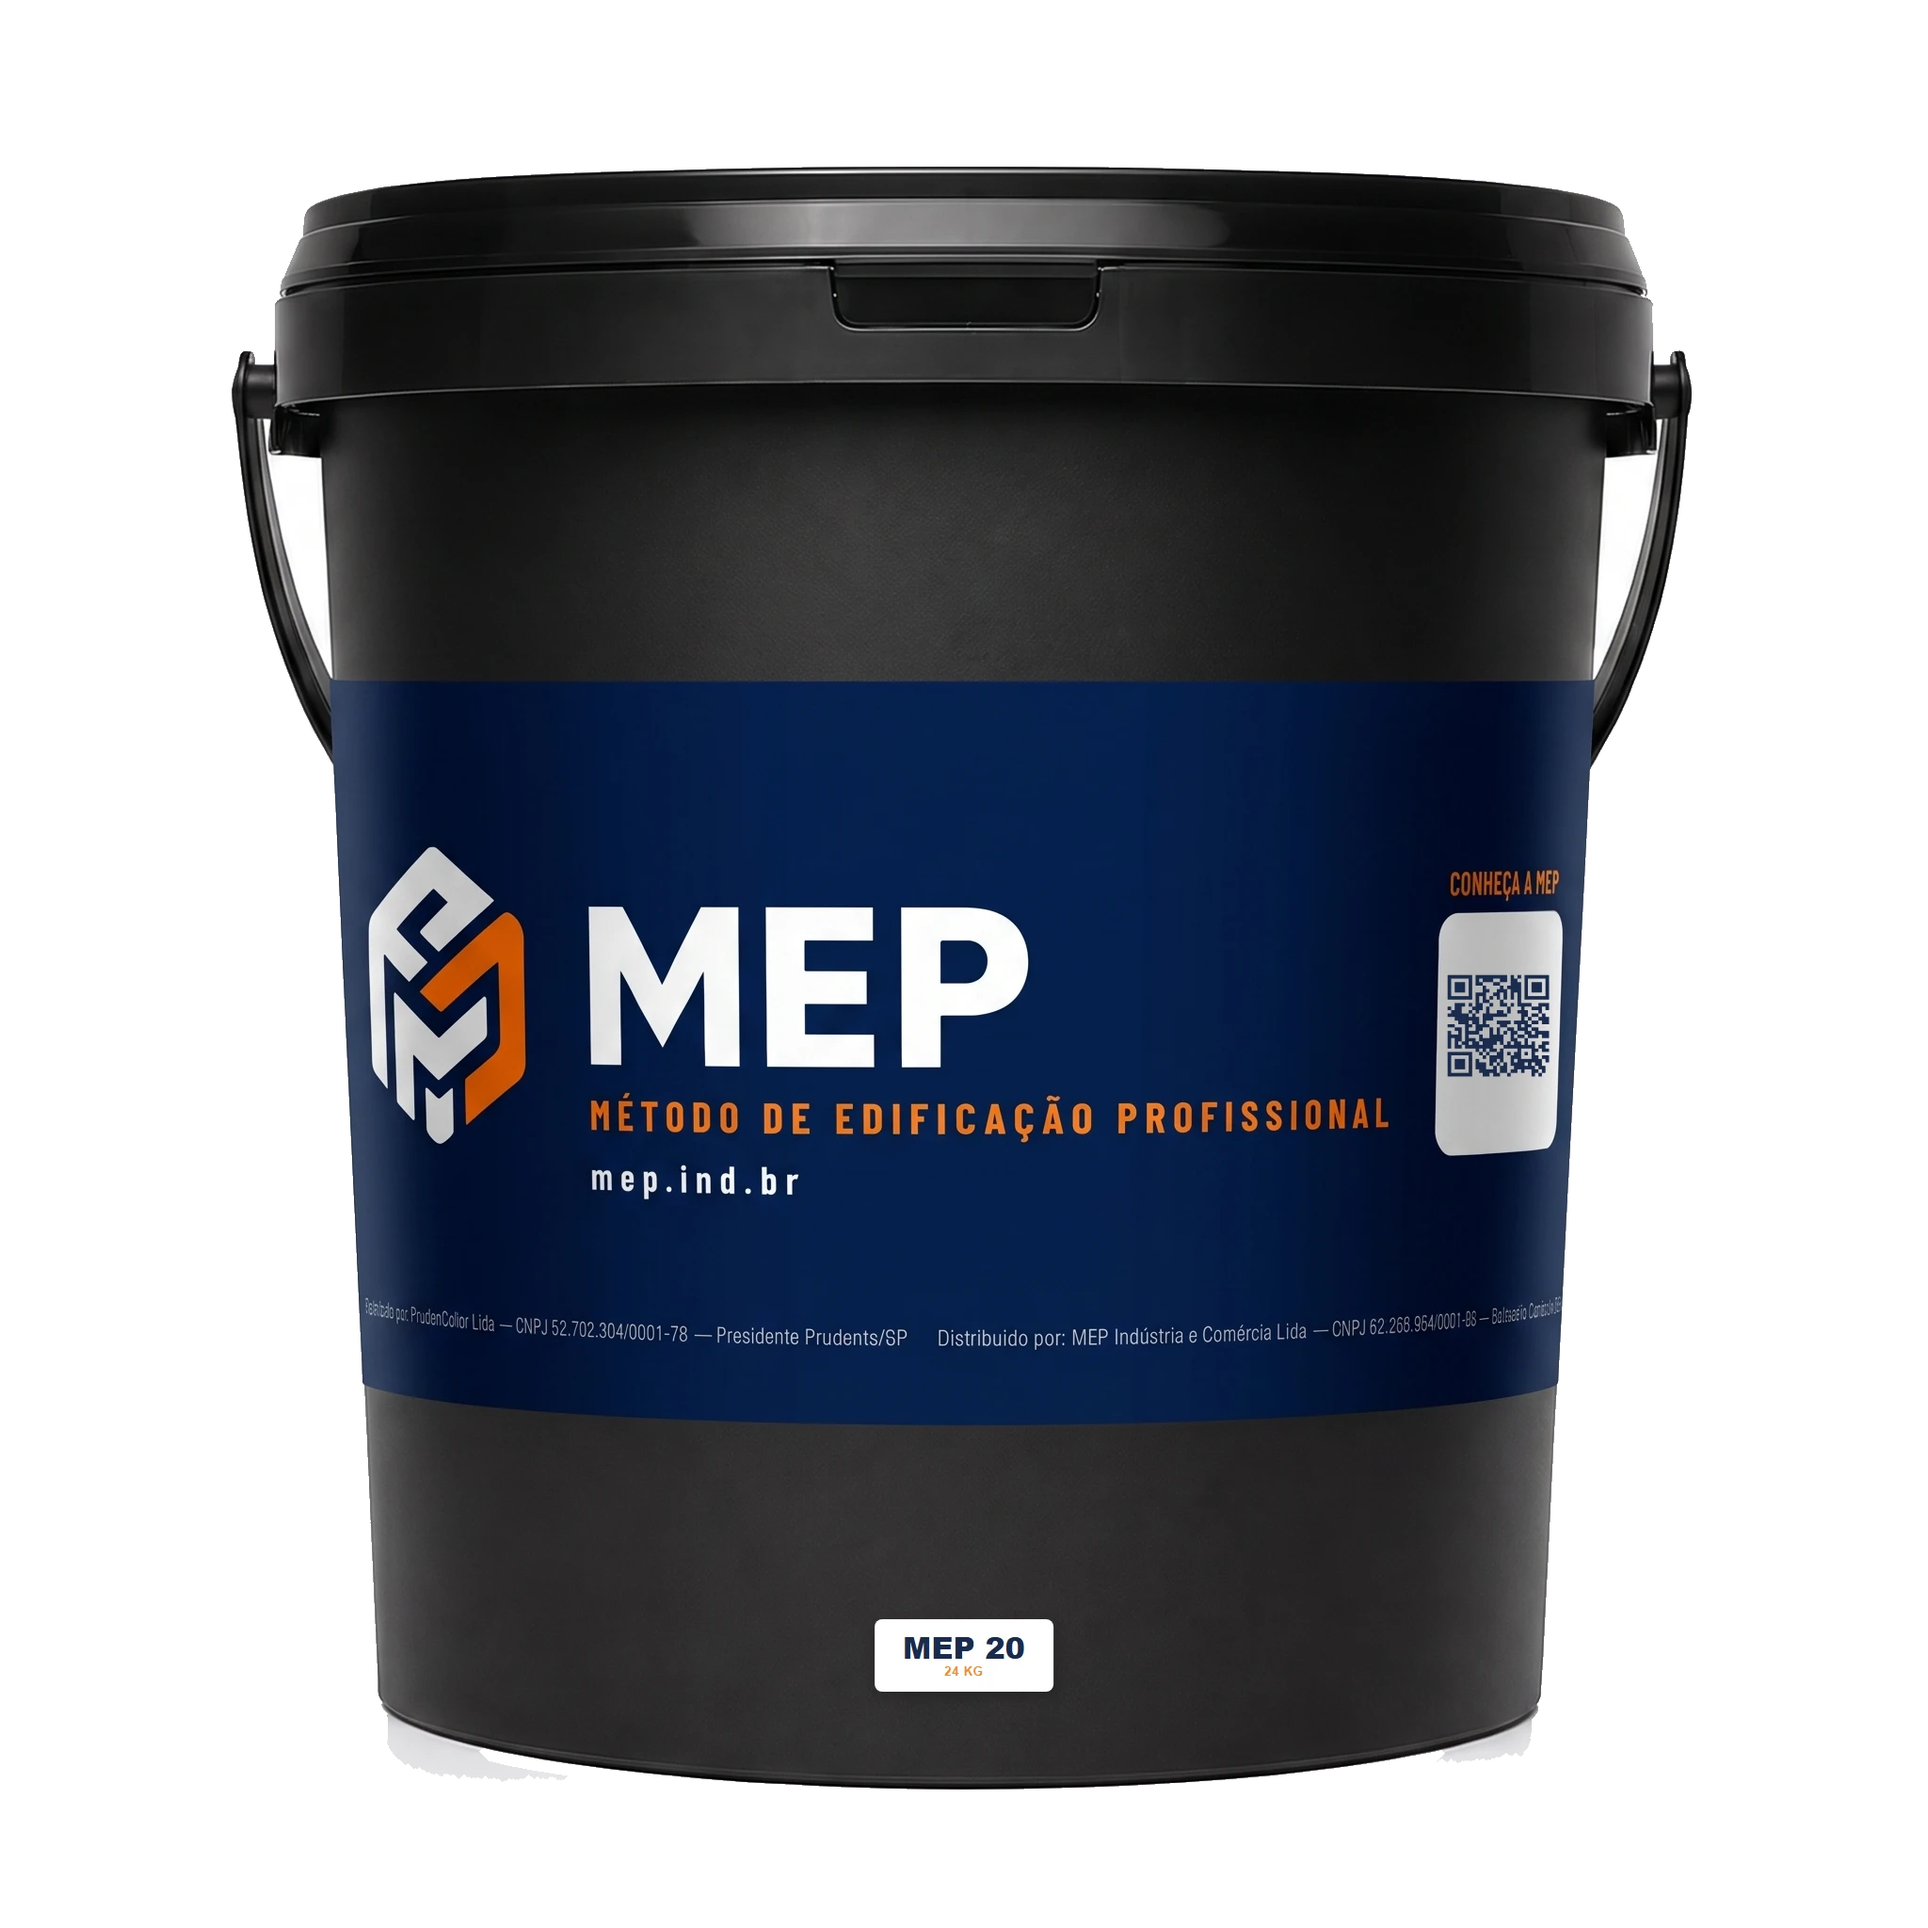
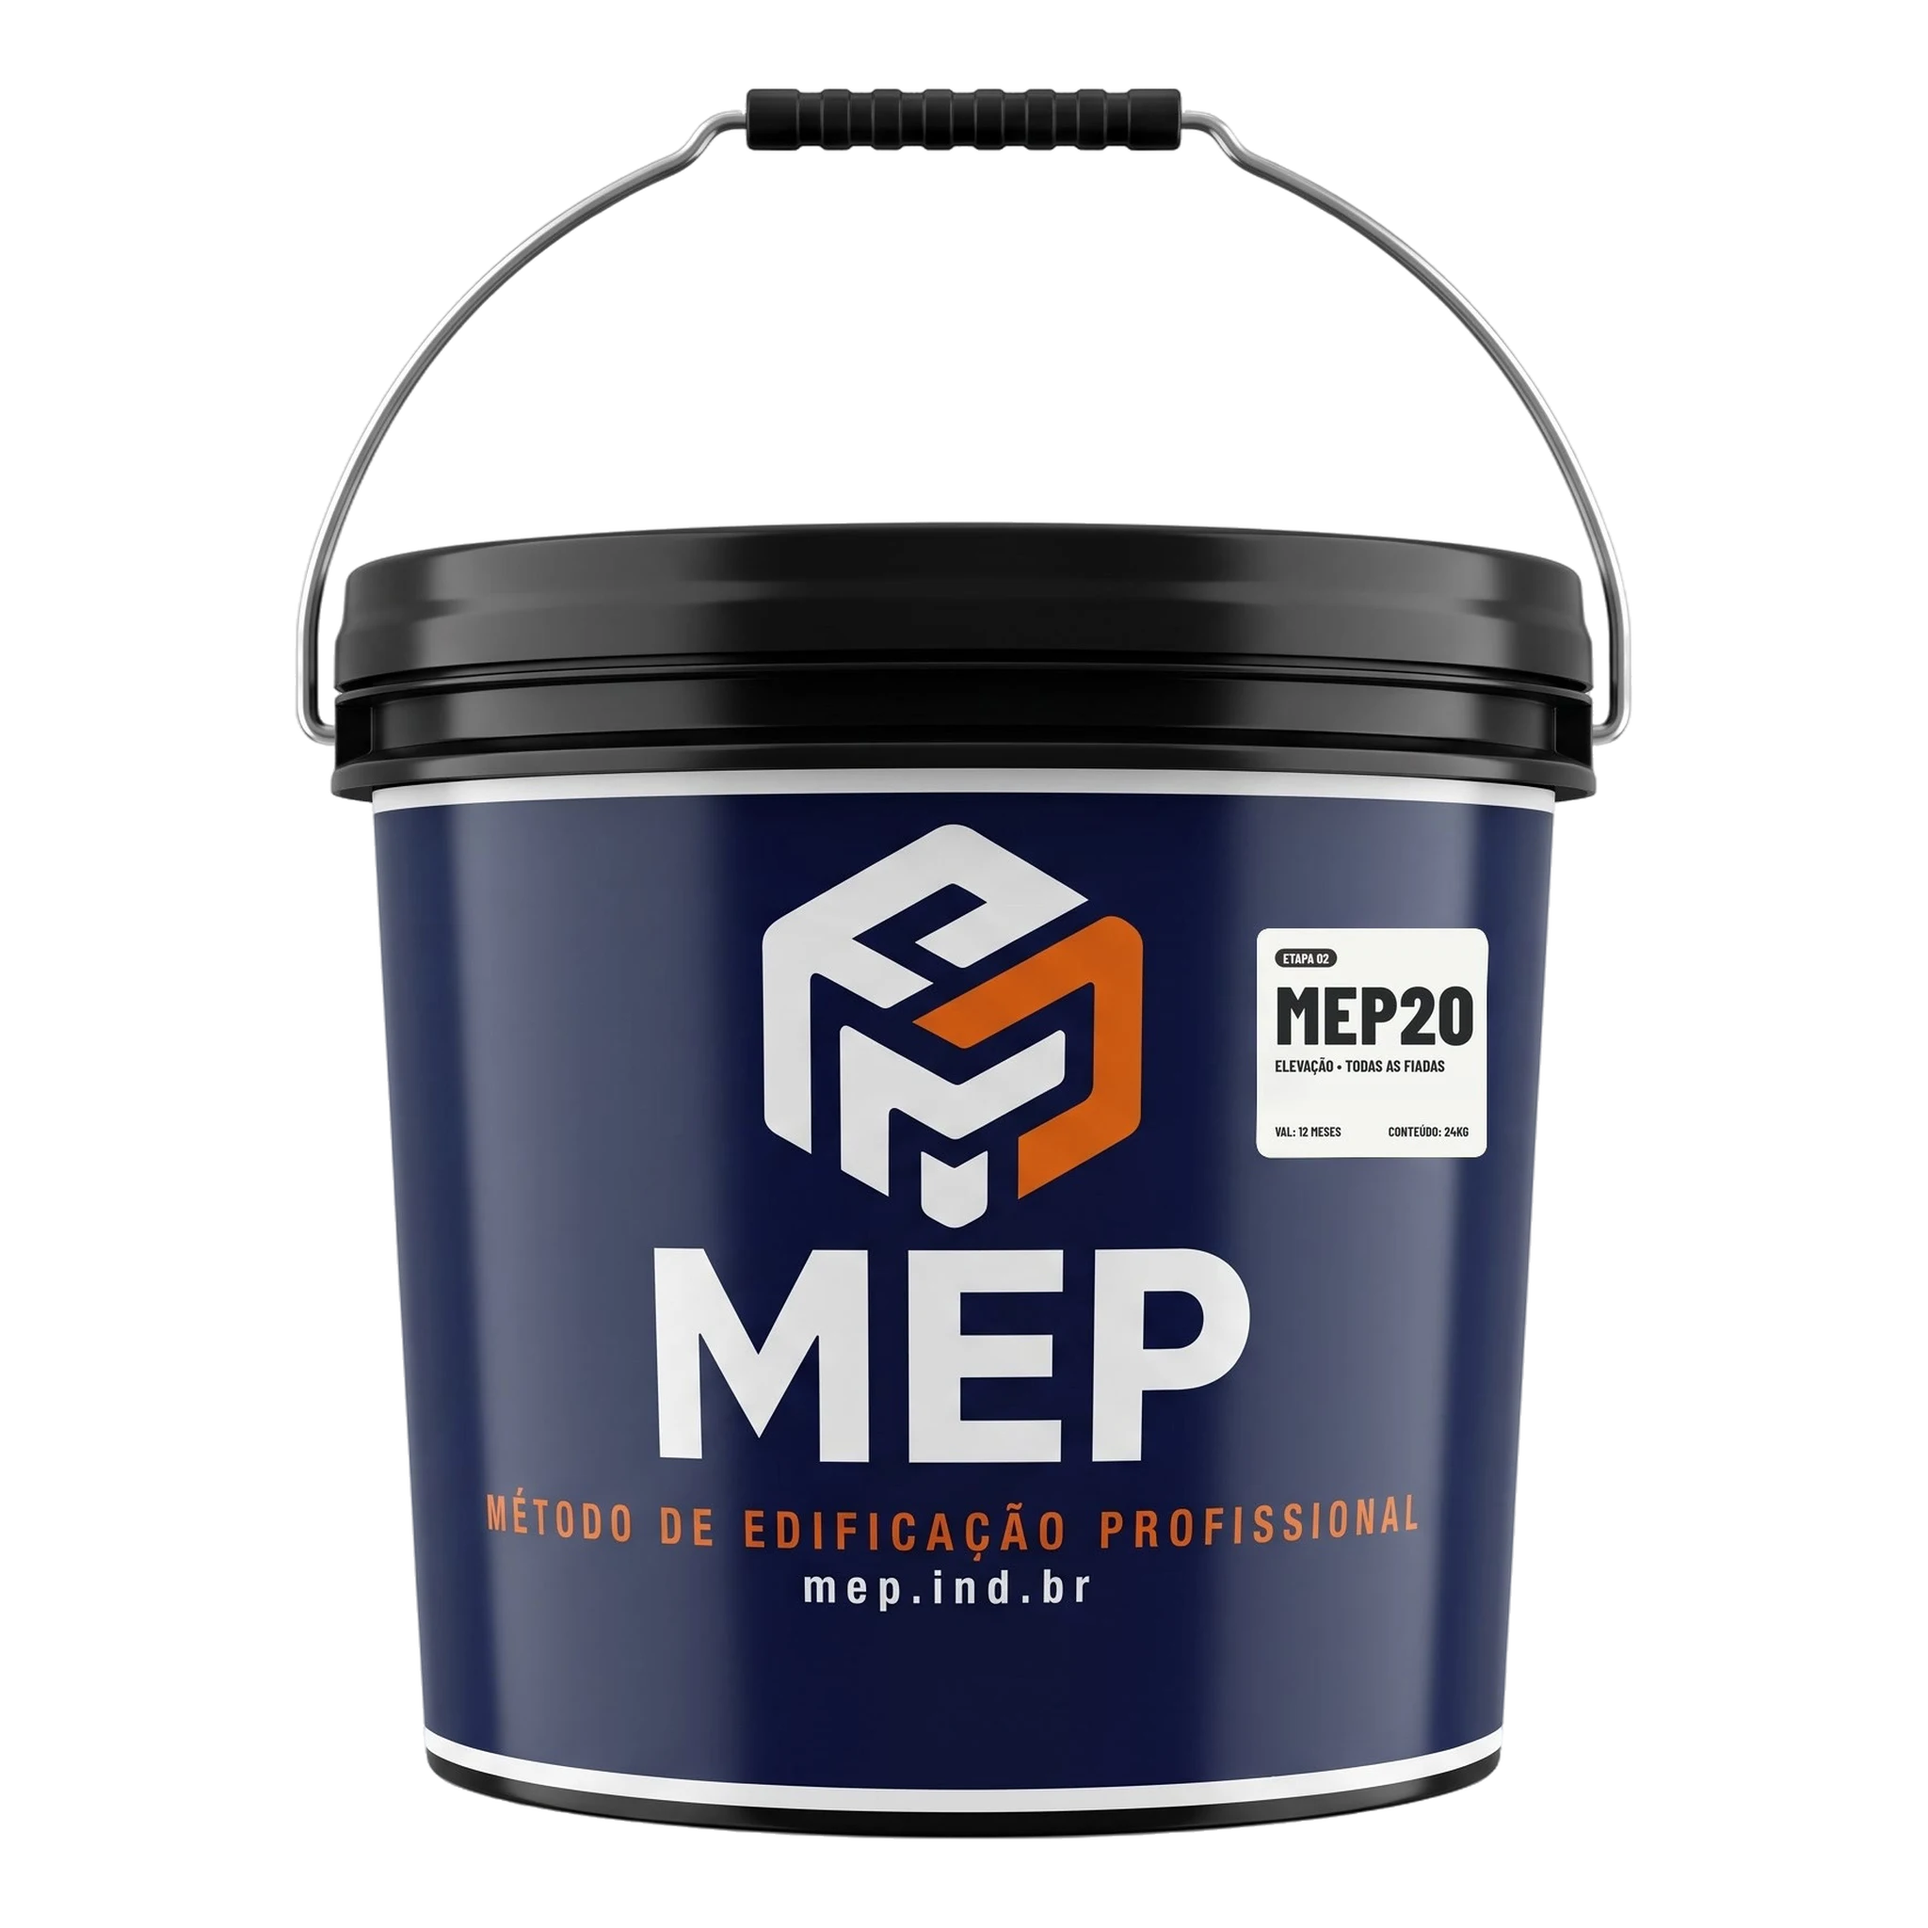
Fotos reais dos baldes MEP 10/20/30/40 no site e imagem de compartilhamento nova
- Troca o render pelo balde real (foto do Flow, adesivo com texto correto)
  no topo, no carrossel, nos cards e no blog
- Banner da linha completa refeito com os quatro baldes reais
- og-image sem "certificada", telefone e cidade corrigidos
- Faixa do topo, "Quem somos" e "Localização" com a sede em Jaraguá do Sul
- "zero desperdício" trocado por "menos de 1%"

diff --git a/docs/index.html b/docs/index.html
@@ -165,7 +165,7 @@
       "description": "Fabricante de argamassa polimérica pronta para uso e linha de tintas MEP COLOR para construção civil. 4x mais rápida, 40% mais econômica que a argamassa convencional.",
       "url": "https://www.mep.ind.br",
       "logo": "https://www.mep.ind.br/logo-mep.svg",
-      "image": "https://www.mep.ind.br/balde-25kg-v2.png.png?v=8",
+      "image": "https://www.mep.ind.br/balde-25kg-v2.png.png?v=9",
       "telephone": "+55-47-98851-5506",
       "email": "contato@mep.ind.br",
       "address": {
@@ -983,7 +983,7 @@ footer { background:var(--azul2); color:rgba(255,255,255,0.55); }
 
 <!-- TOPBAR -->
 <div class="topbar">
-  <span>MEP Indústria e Comércio Ltda — Balneário Camboriú, SC</span>
+  <span>MEP — Sede em Jaraguá do Sul · Escritório em Balneário Camboriú, SC</span>
   <div class="tb-right">
     <a href="tel:+5547988515506">(47) 98851-5506</a>
     <a href="mailto:contato@mep.ind.br">contato@mep.ind.br</a>
@@ -1046,7 +1046,7 @@ footer { background:var(--azul2); color:rgba(255,255,255,0.55); }
     <div>
       <div class="hero-badge">Argamassa Polimérica · Pronto para Uso</div>
       <h1>Argamassa Polimérica<br><span>MEP Massas</span> —<br>construção mais rápida.</h1>
-      <p>Produto pronto para uso. Sem betoneira, sem mistura, zero desperdício. Para construtoras e incorporadoras que exigem mais resultado com menos custo.</p>
+      <p>Produto pronto para uso. Sem betoneira, sem mistura, menos de 1% de desperdício. Para construtoras e incorporadoras que exigem mais resultado com menos custo.</p>
       <div class="hero-btns">
         <a href="#produtos" class="btn-hero-primary">Conhecer Produtos</a>
         <a href="#calculadora" class="btn-hero-sec">Calcular Economia</a>
@@ -1061,7 +1061,7 @@ footer { background:var(--azul2); color:rgba(255,255,255,0.55); }
     </div>
     <div class="hero-visual">
       <div class="hero-visual-glow"></div>
-      <img src="barrica-25kg.webp?v=8" alt="Massa MEP — Barrica 24kg">
+      <img src="barrica-25kg.webp?v=9" alt="Massa MEP — Barrica 24kg">
     </div>
   </div>
 </div>
@@ -1079,7 +1079,7 @@ footer { background:var(--azul2); color:rgba(255,255,255,0.55); }
         <div class="slb1-txt">
           <div class="sl-eyebrow">Argamassa Polimérica · Pronta para Uso</div>
           <div class="sl-h1">A MASSA QUE<br>CHEGA <span class="navy">PRONTA.</span><br>VOCÊ APLICA.</div>
-          <div class="sl-sub">Sem betoneira, sem desperdício, sem complicação. Tecnologia polimérica que multiplica a produtividade da obra.</div>
+          <div class="sl-sub">Sem betoneira, sem entulho, sem complicação. Tecnologia polimérica que multiplica a produtividade da obra.</div>
           <div class="slb1-metrics">
             <div class="slb1-metric"><div class="mv">4×</div><div class="ml">Mais rápida</div></div>
             <div class="slb1-metric"><div class="mv">40%</div><div class="ml">Mais econômica</div></div>
@@ -1092,7 +1092,7 @@ footer { background:var(--azul2); color:rgba(255,255,255,0.55); }
         </div>
         <div class="slb1-img">
           <div class="slb1-glow"></div>
-          <img src="barrica-25kg.webp?v=8" alt="MEP Massas — Barrica 24kg">
+          <img src="barrica-25kg.webp?v=9" alt="MEP Massas — Barrica 24kg">
           <div class="slb1-badge">Rende<strong>16 m²</strong>por barrica</div>
         </div>
       </div>
@@ -1174,8 +1174,8 @@ footer { background:var(--azul2); color:rgba(255,255,255,0.55); }
         </div>
         <div class="slb5-img">
           <picture>
-            <source media="(max-width:900px)" srcset="banner-mep-linha-completa-mobile.webp">
-            <img src="banner-mep-linha-completa.webp" alt="Sistema completo MEP 10, 20, 30 e 40 — nivelamento, assentamento, encunhamento e reboco fino" loading="lazy">
+            <source media="(max-width:900px)" srcset="banner-mep-linha-completa-mobile.webp?v=2">
+            <img src="banner-mep-linha-completa.webp?v=2" alt="Sistema completo MEP 10, 20, 30 e 40 — nivelamento, assentamento, encunhamento e reboco fino" loading="lazy">
           </picture>
           <div class="slb5-tag">Sistema <b>MEP 10 · 20 · 30 · 40</b></div>
         </div>
@@ -1261,7 +1261,7 @@ footer { background:var(--azul2); color:rgba(255,255,255,0.55); }
 
       <div class="produto-card">
         <div class="produto-img-foto">
-          <img src="mep-10-nivelamento.webp" alt="MEP 10 — Nivelamento da Base">
+          <img src="mep-10-nivelamento.webp?v=2" alt="MEP 10 — Nivelamento da Base">
         </div>
         <div class="produto-info">
           <div class="produto-nome">MEP 10 — Nivelamento da Base</div>
@@ -1272,7 +1272,7 @@ footer { background:var(--azul2); color:rgba(255,255,255,0.55); }
 
       <div class="produto-card">
         <div class="produto-img-foto">
-          <img src="mep-20-assentamento.webp" alt="MEP 20 — Elevação de Alta Performance">
+          <img src="mep-20-assentamento.webp?v=2" alt="MEP 20 — Elevação de Alta Performance">
         </div>
         <div class="produto-info">
           <div class="produto-nome">MEP 20 — Elevação de Alta Performance</div>
@@ -1283,7 +1283,7 @@ footer { background:var(--azul2); color:rgba(255,255,255,0.55); }
 
       <div class="produto-card">
         <div class="produto-img-foto">
-          <img src="mep-30-encunhamento.webp" alt="MEP 30 — Encunhamento Inteligente">
+          <img src="mep-30-encunhamento.webp?v=2" alt="MEP 30 — Encunhamento Inteligente">
         </div>
         <div class="produto-info">
           <div class="produto-nome">MEP 30 — Encunhamento Inteligente</div>
@@ -1294,7 +1294,7 @@ footer { background:var(--azul2); color:rgba(255,255,255,0.55); }
 
       <div class="produto-card">
         <div class="produto-img-foto">
-          <img src="mep-40-reboco-fino.webp" alt="MEP 40 — Reboco Fino Tecnológico">
+          <img src="mep-40-reboco-fino.webp?v=2" alt="MEP 40 — Reboco Fino Tecnológico">
         </div>
         <div class="produto-info">
           <div class="produto-nome">MEP 40 — Reboco Fino Tecnológico</div>
@@ -2013,8 +2013,8 @@ footer { background:var(--azul2); color:rgba(255,255,255,0.55); }
     </div>
     <div class="quem-grid" style="display:grid;grid-template-columns:1fr 1fr;gap:60px;align-items:center;">
       <div>
-        <p style="font-size:16px;line-height:1.8;color:var(--sub);margin-bottom:20px;">A MEP é uma indústria brasileira de insumos para construção civil, com sede em Balneário Camboriú, SC. Desenvolvemos e comercializamos soluções que substituem processos lentos, pesados e de alto custo por alternativas mais inteligentes, limpas e eficientes.</p>
-        <p style="font-size:16px;line-height:1.8;color:var(--sub);margin-bottom:32px;">Nossa missão é simples: entregar ao construtor um produto que ele possa usar no primeiro dia, com resultado profissional, sem desperdício e com custo real menor do que a argamassa convencional.</p>
+        <p style="font-size:16px;line-height:1.8;color:var(--sub);margin-bottom:20px;">A MEP é uma indústria brasileira de insumos para construção civil, com sede e depósito em Jaraguá do Sul e escritório em Balneário Camboriú, SC. Desenvolvemos e comercializamos soluções que substituem processos lentos, pesados e de alto custo por alternativas mais inteligentes, limpas e eficientes.</p>
+        <p style="font-size:16px;line-height:1.8;color:var(--sub);margin-bottom:32px;">Nossa missão é simples: entregar ao construtor um produto que ele possa usar no primeiro dia, com resultado profissional, com desperdício mínimo e custo real menor do que a argamassa convencional.</p>
         <div style="display:flex;flex-direction:column;gap:14px;">
           <div style="display:flex;align-items:center;gap:12px;">
             <div style="width:8px;height:8px;border-radius:50%;background:var(--laranja);flex-shrink:0;"></div>
@@ -2071,7 +2071,7 @@ footer { background:var(--azul2); color:rgba(255,255,255,0.55); }
           <div style="width:44px;height:44px;background:var(--azul);border-radius:8px;display:flex;align-items:center;justify-content:center;flex-shrink:0;">
             <svg width="20" height="20" viewBox="0 0 24 24" fill="none" stroke="#fff" stroke-width="2" stroke-linecap="round" stroke-linejoin="round"><path d="M21 10c0 7-9 13-9 13s-9-6-9-13a9 9 0 0118 0z"/><circle cx="12" cy="10" r="3"/></svg>
           </div>
-          <div><div style="font-size:12px;font-weight:700;text-transform:uppercase;letter-spacing:1px;color:var(--sub);">Localização</div><div style="font-size:16px;font-weight:700;color:var(--azul);margin-top:3px;">Balneário Camboriú, SC</div></div>
+          <div><div style="font-size:12px;font-weight:700;text-transform:uppercase;letter-spacing:1px;color:var(--sub);">Localização</div><div style="font-size:16px;font-weight:700;color:var(--azul);margin-top:3px;">Jaraguá do Sul e Balneário Camboriú, SC</div></div>
         </div>
         <div style="display:flex;gap:16px;align-items:flex-start;">
           <div style="width:44px;height:44px;background:var(--azul);border-radius:8px;display:flex;align-items:center;justify-content:center;flex-shrink:0;">

diff --git a/docs/blog/massa-polimerica-leroy-merlin.html b/docs/blog/massa-polimerica-leroy-merlin.html
@@ -175,7 +175,7 @@ footer{background:var(--azul2);color:rgba(255,255,255,0.55);}
 </div>
 
 <section class="art-hero">
-  <img class="art-hero-img" src="../balde-25kg-v2.webp" alt="Balde MEP MASSA 25kg — alternativa industrial às marcas de varejo">
+  <img class="art-hero-img" src="../balde-25kg-v2.webp" alt="Balde MEP 20 de 24 kg — alternativa industrial às marcas de varejo">
   <div class="art-hero-overlay"></div>
   <div class="art-hero-content">
     <div class="art-hero-tag">Guia de Compra</div>
@@ -203,7 +203,7 @@ footer{background:var(--azul2);color:rgba(255,255,255,0.55);}
     <p>Esses produtos foram formulados para praticidade no varejo: embalagem pequena, fácil de transportar, disponível imediatamente. Para um reparo de 2 m² num fim de semana, são uma excelente opção.</p>
 
     <div class="art-photo">
-      <img src="../barrica-25kg.webp" alt="Barrica MEP MASSA 25kg — rendimento superior e custo por m² menor que produtos de varejo">
+      <img src="../barrica-25kg.webp" alt="Balde MEP 20 de 24 kg — rendimento superior e custo por m² menor que produtos de varejo">
       <div class="art-photo-caption">Junta de alvenaria com argamassa polimérica — detalhe de aplicação em bloco cerâmico.</div>
     </div>
 

diff --git a/docs/blog/massa-polimerica-rendimento-m2.html b/docs/blog/massa-polimerica-rendimento-m2.html
@@ -164,7 +164,7 @@ footer{background:var(--azul2);color:rgba(255,255,255,0.55);margin-top:0;}
 
 <!-- HERO DO ARTIGO -->
 <section class="art-hero">
-  <img class="art-hero-img" src="../barrica-25kg.webp" alt="Barrica MEP MASSA 25kg — argamassa polimérica para assentamento de alvenaria">
+  <img class="art-hero-img" src="../barrica-25kg.webp" alt="Balde MEP 20 de 24 kg — argamassa polimérica para assentamento de alvenaria">
   <div class="art-hero-overlay"></div>
   <div class="art-hero-content">
     <div class="art-hero-tag">Rendimento</div>
